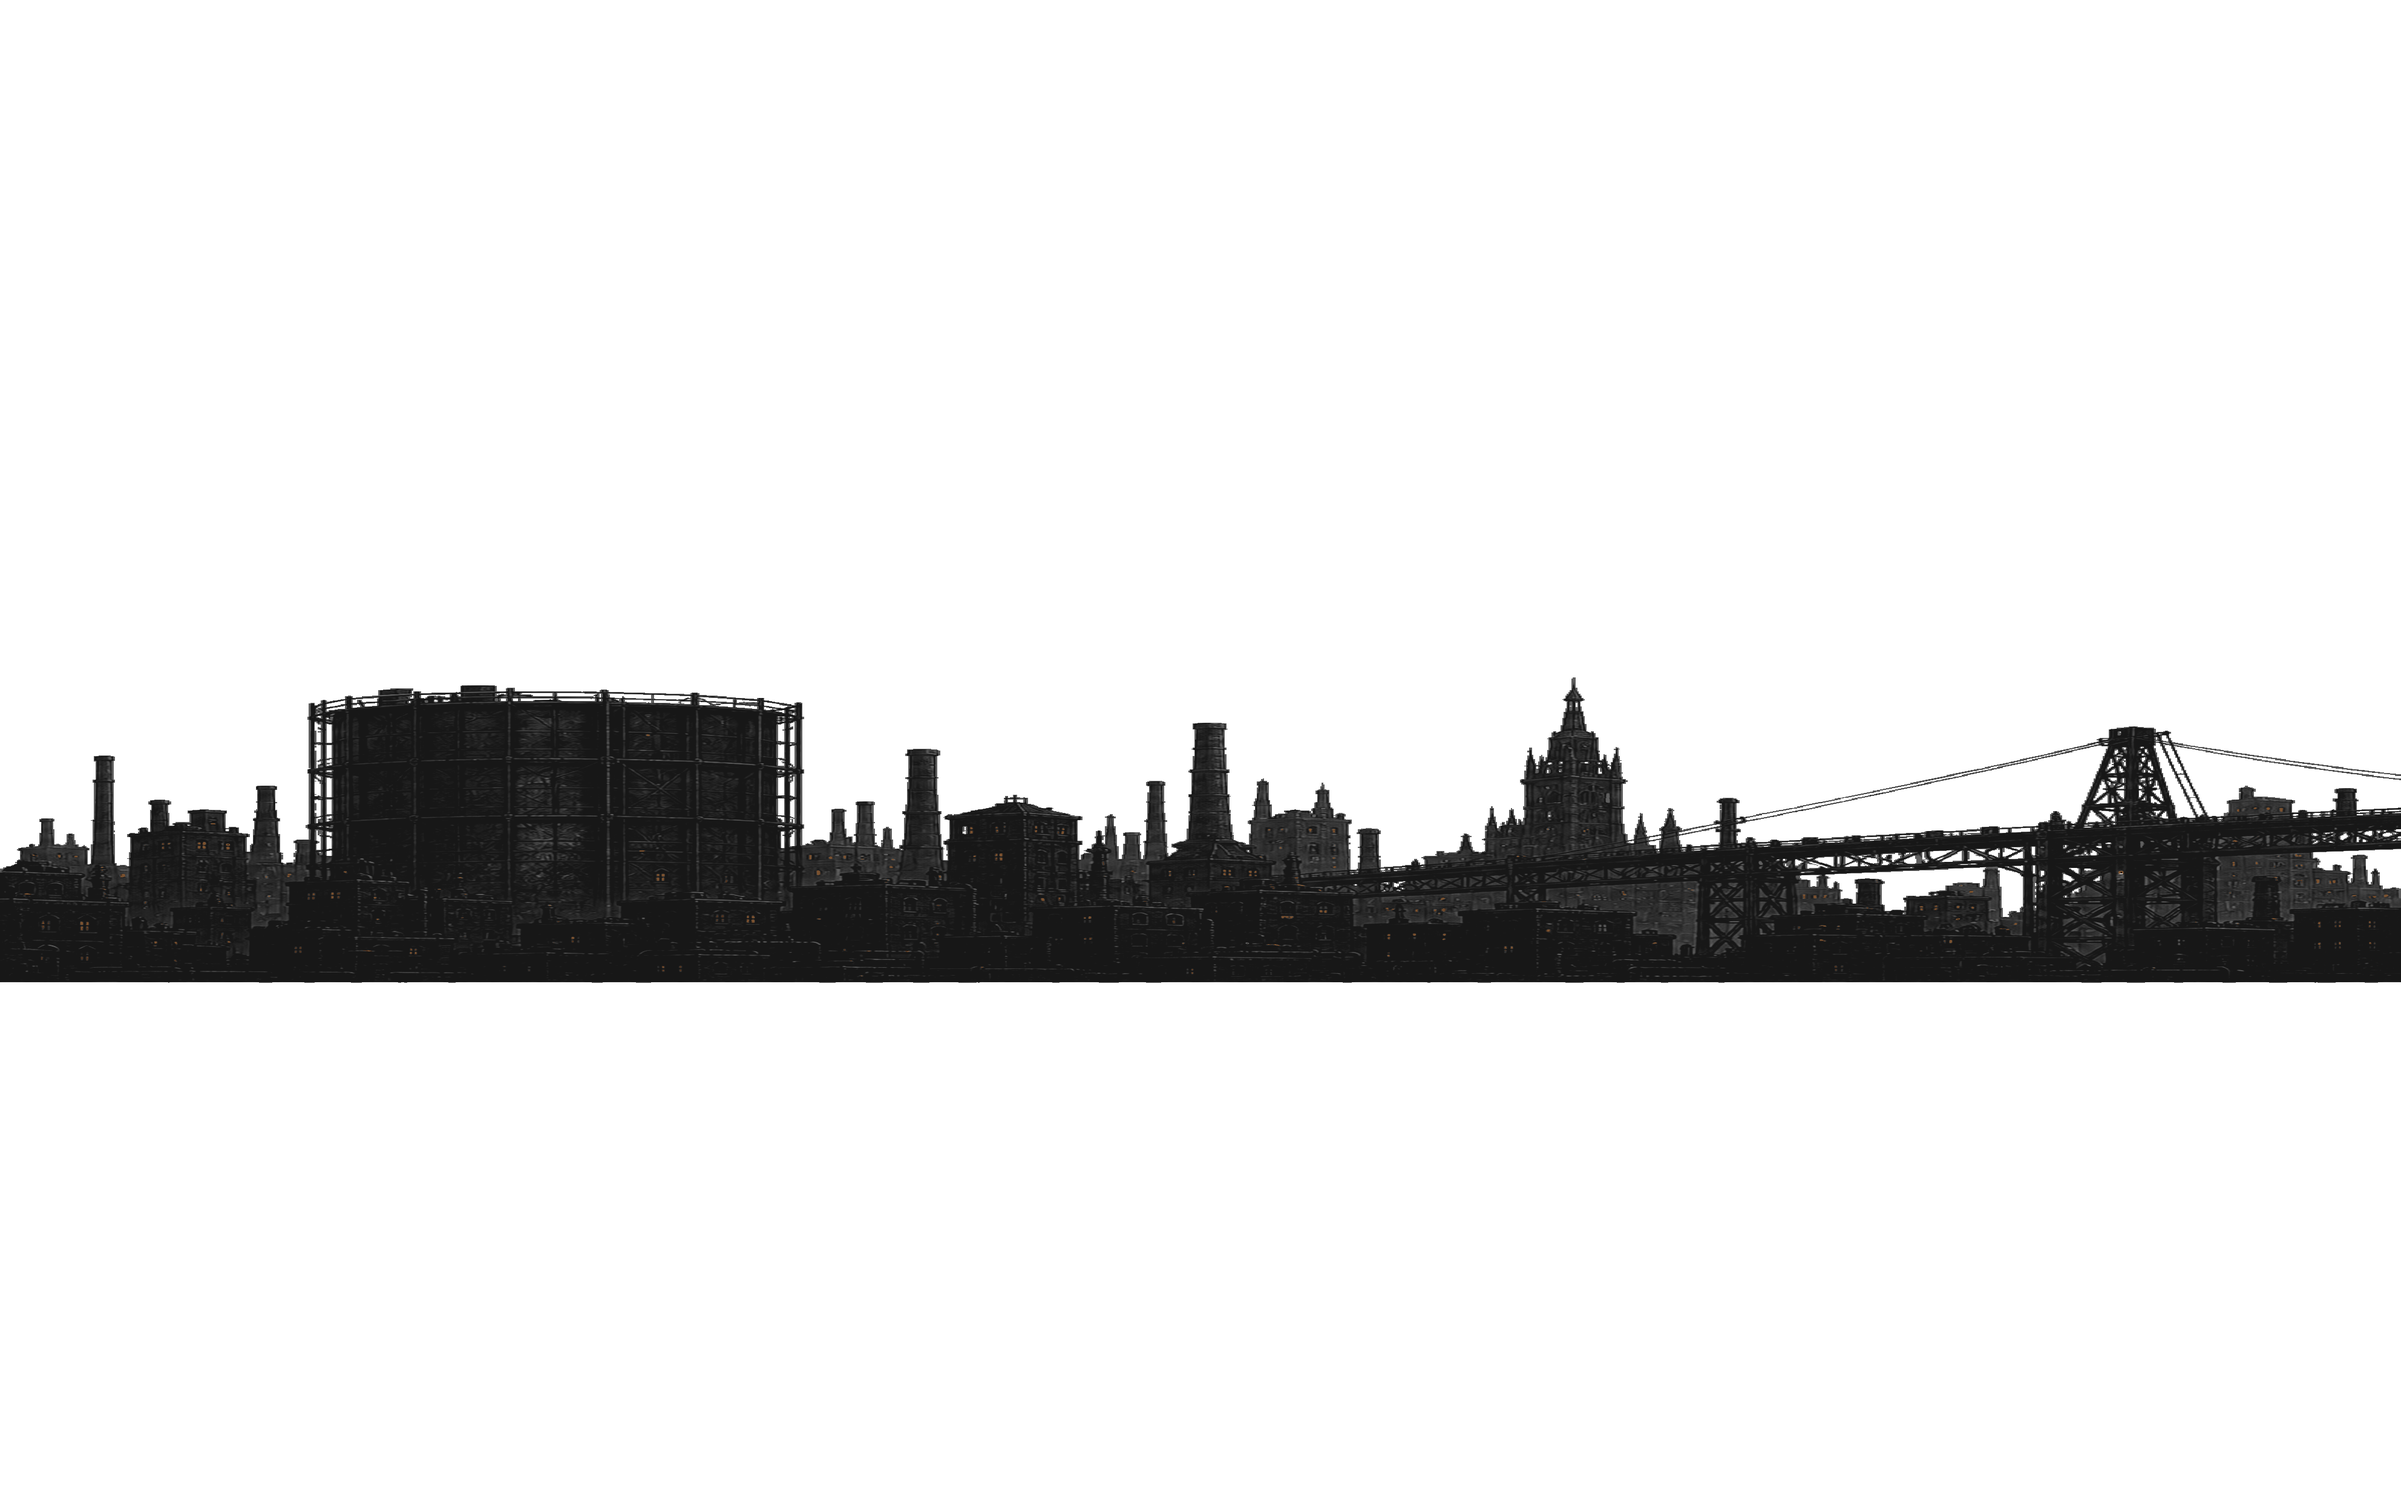
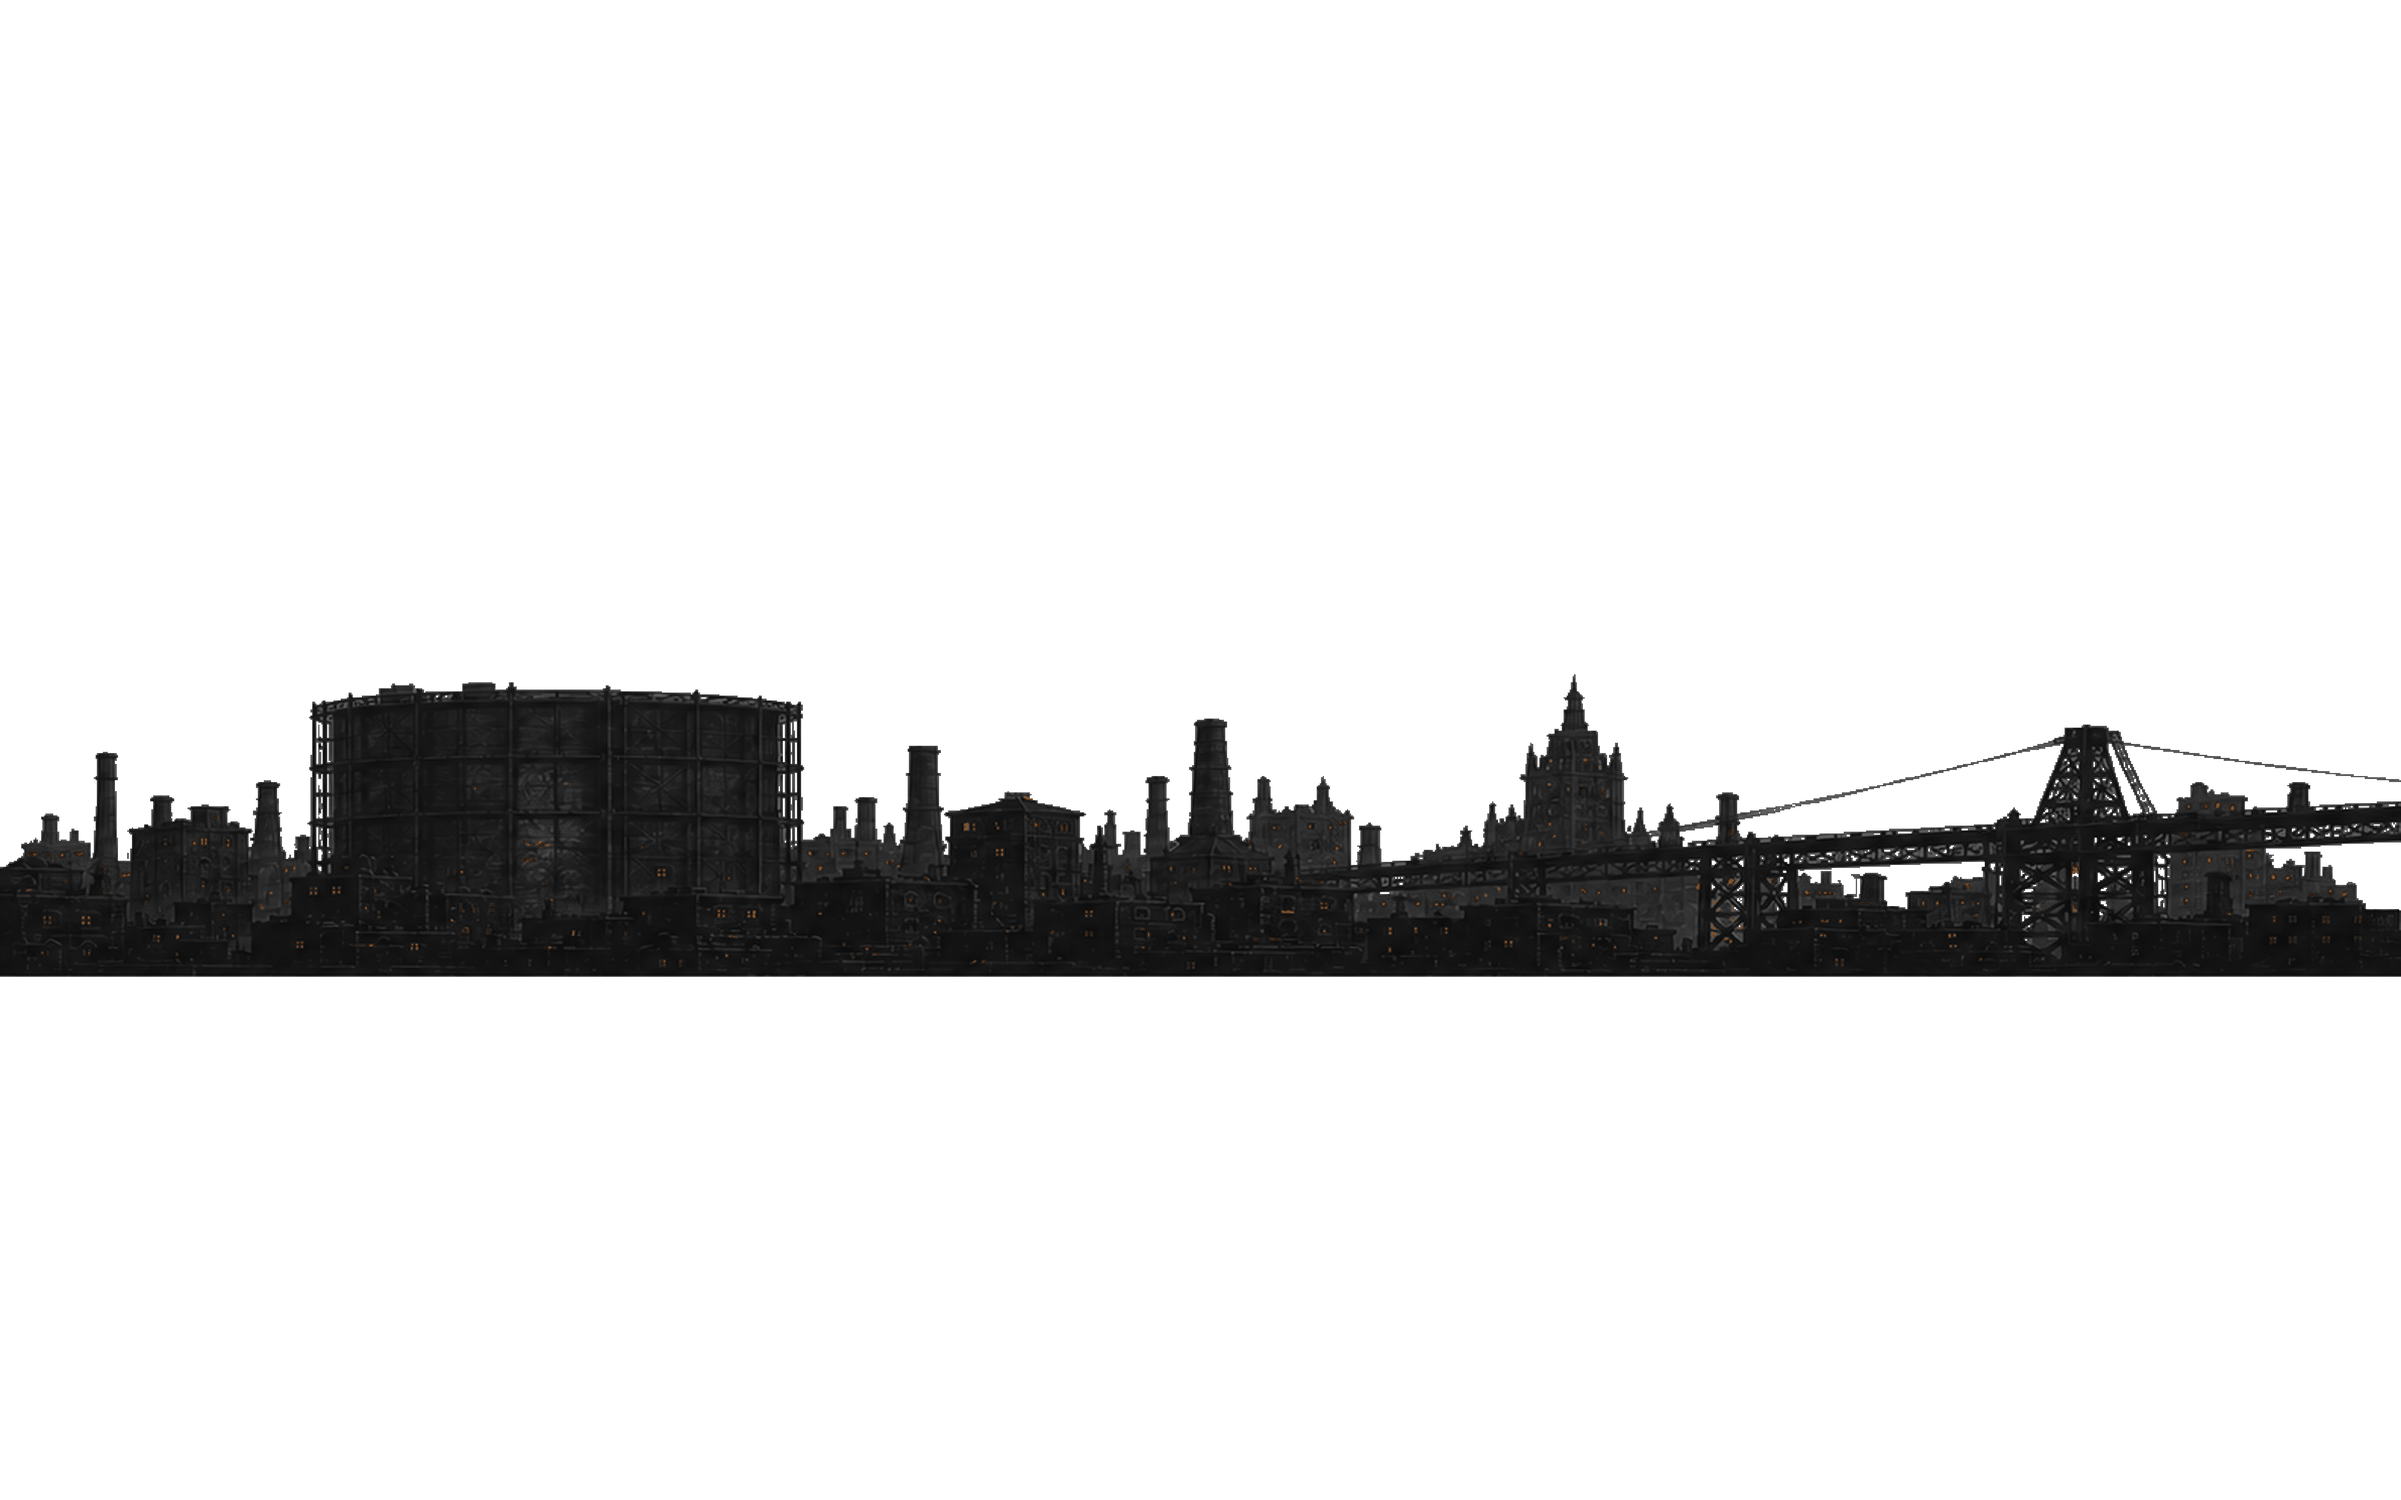
v2 title art

diff --git a/art-src/title-screen/generation-prompts.md b/art-src/title-screen/generation-prompts.md
@@ -2,6 +2,14 @@
 
 The approved `greyfall_title.png` was used only as the visual reference for composition, mood, value structure, and painterly industrial realism. Each item below was generated as a distinct production asset with the built-in image-generation tool.
 
+## Targeted repaint pass — 2026-08-18
+
+Layers 01, 03, and 05 were repainted against `reference_greyfall_title.png`. Layers 02, 04, and 06 were retained byte-for-byte.
+
+- **01 Sky:** Replace broad near-featureless darkness with clearly visible long directional cloud bands, streaked scudding fronts, layered turbulent shelves, and intentional value variation. Make the top third active before runtime ash, while keeping the air clean: no particles, rain, sparks, or isolated speckles. Preserve full-canvas overscan and use neutral soot greys only.
+- **03 Near city:** Preserve the gasometer/bridge/spire composition and transparent isolation, but restore real façade value stepping and a richer sparse scatter of tiny `#7a5230`-family umber windows. Keep the result inhabited-but-rationed, darker than the approved far skyline, lighter than the pit, and completely free of amber colors.
+- **05 Conduit:** Preserve the route, step-down, junction position, and side overscan, but reduce the ornate pipe into a thin energized line with `#8c5411` flanks, a `#d98a1b` core, and `#f3b94a` confined to the compact junction hotspot. Remove decorative collars and architectural mass; retain genuine isolated binary alpha.
+
 ## 1. Sky
 
 Repaint only the stormy soot-grey cloud sky as a clean standalone background layer. Use a 16:10 landscape canvas whose centered 80.65% is the protected frame and whose surrounding 12% is painted overscan. Preserve a dark upper sky and slightly lighter low-horizon haze. Heavy overcast, clean air: no city, ground, pit, conduit, plate, text, ash, precipitation, sparks, dust, stars, birds, or smoke columns. Neutral soot-grey family only; no amber, reserved copper `#a5622f`, blue, green, or red.
